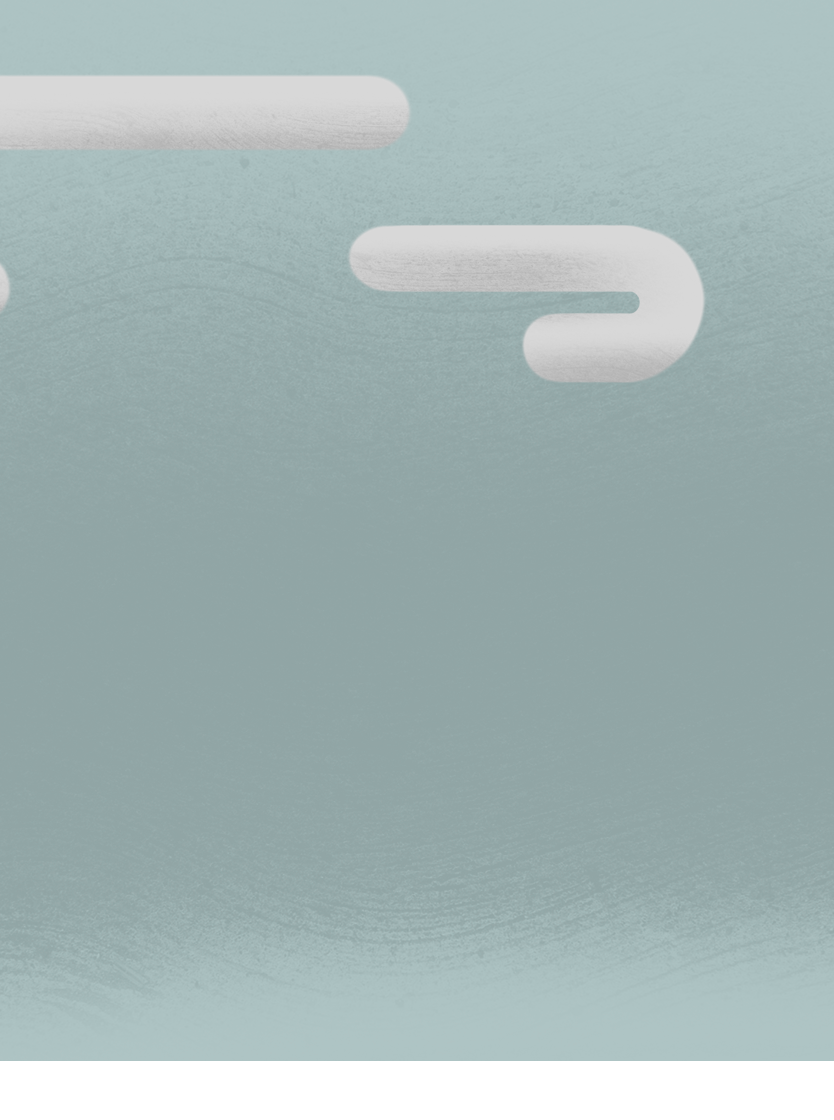
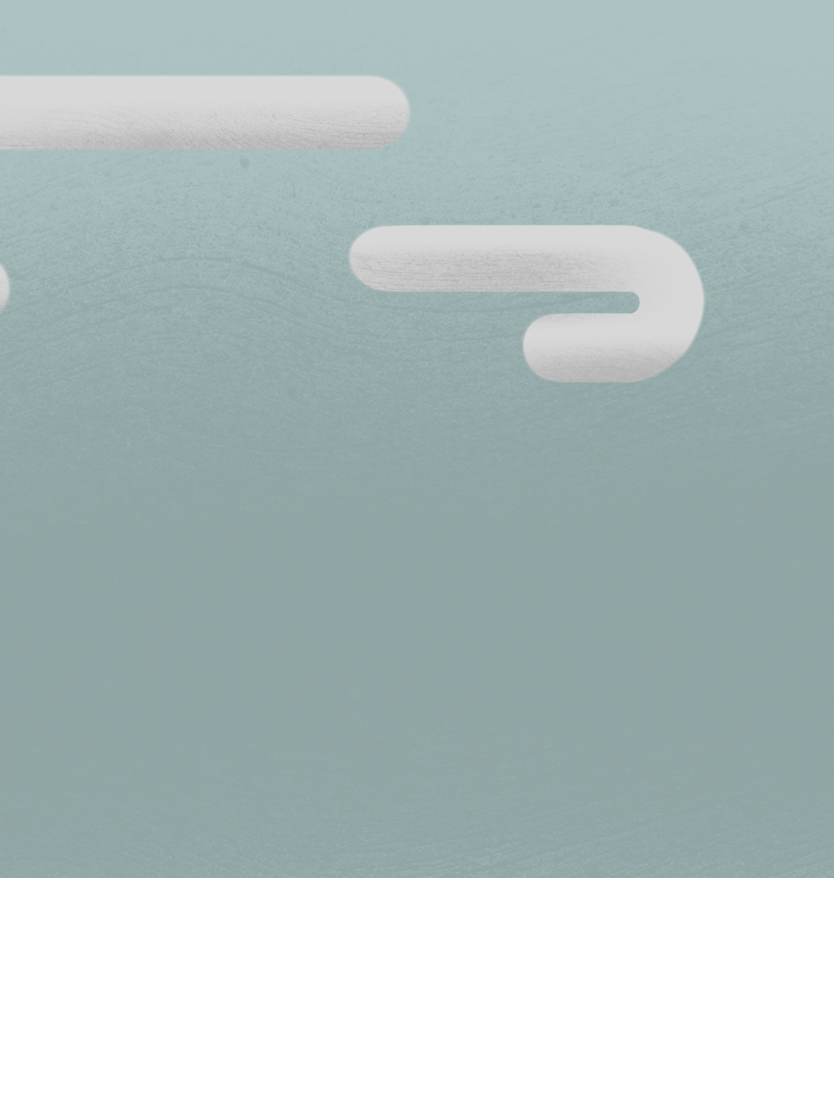
tab fixes

Changed region(s): [[0.0, 0.7812, 1.0, 0.9688]]

diff --git a/why.html b/why.html
@@ -22,7 +22,22 @@
 <link rel=stylesheet type=text/css href=css/main.css></noscript>
 <script>!function(c){c.loadCSS||(c.loadCSS=function(){});var b=loadCSS.relpreload={};if(b.support=function(){var f;try{f=c.document.createElement("link").relList.supports("preload")}catch(d){f=!1}return function(){return f}}(),b.bindMediaToggle=function(f){var g=f.media||"all";function d(){f.addEventListener?f.removeEventListener("load",d):f.attachEvent&&f.detachEvent("onload",d),f.setAttribute("onload",null),f.media=g}f.addEventListener?f.addEventListener("load",d):f.attachEvent&&f.attachEvent("onload",d),setTimeout(function(){f.rel="stylesheet",f.media="only x"}),setTimeout(d,3000)},b.poly=function(){if(!b.support()){for(var f=c.document.getElementsByTagName("link"),g=0;g<f.length;g++){var d=f[g];"preload"!==d.rel||"style"!==d.getAttribute("as")||d.getAttribute("data-loadcss")||(d.setAttribute("data-loadcss",!0),b.bindMediaToggle(d))}}},!b.support()){b.poly();var a=c.setInterval(b.poly,500);c.addEventListener?c.addEventListener("load",function(){b.poly(),c.clearInterval(a)}):c.attachEvent&&c.attachEvent("onload",function(){b.poly(),c.clearInterval(a)})}"undefined"!=typeof exports?exports.loadCSS=loadCSS:c.loadCSS=loadCSS}("undefined"!=typeof global?global:this);</script>
 <script type=text/javascript src=js/update_cache.js></script>
-<style>body,.overlay-cont .phil-cont,.ppl-cont,.footer-section-about .footer-p,.footer-section-about .footer-list a,.footer-section-about .get-in-touch p,.footer-section-about .copyright-area p,.quote-para,.dia-div .dia-normal,.dia-div .dia-bold,.common-para{font-family:'Ubuntu',sans-serif!important}.footer-title{font-family:'Cairo',sans-serif!important;line-height:1.4;font-weight:bold}.phil-title,.prog-head,.section-para-cont{font-family:'Cairo',sans-serif!important;line-height:1.4;font-weight:bold}.section-para-cont{font-size:24px}.phil-cont{font-family:'Ubuntu',sans-serif!important}.parallax-div{margin:0;padding:0;width:100%;height:100vh}.background-why{width:100%;height:100vh;position:absolute;background:url(assets/img/why/parallax/cloudsgif.gif) no-repeat;background-size:cover}.why1{position:absolute;width:100%;height:100vh;background:url(assets/img/why/parallax/landing2.png) no-repeat;background-size:cover}.why2{position:absolute;width:100%;height:100vh;background:url(assets/img/why/parallax/landing3.png) no-repeat;background-size:cover}.why3{position:absolute;width:100%;height:100vh;background:url(assets/img/why/parallax/landing4.png) no-repeat;background-size:cover}.why4{position:absolute;width:100%;height:100vh;background:url(assets/img/why/parallax/landing5.png) no-repeat;background-size:cover}.why5{position:absolute;width:100%;height:100vh;background:url(assets/img/why/parallax/landing6.png) no-repeat;background-size:cover}.why6{position:absolute;width:100%;height:100vh;background:url(assets/img/why/parallax/landing7.png) no-repeat;background-size:cover}.background-why-mob{width:100%;height:100vh;position:absolute;background:url(assets/img/mobile/why/landing1.png) no-repeat;background-size:cover}.whymob1{position:absolute;width:100%;height:100vh;background:url(assets/img/mobile/why/landing2.png) no-repeat;background-size:cover}.whymob2{position:absolute;width:100%;height:100vh;background:url(assets/img/mobile/why/landing3.png) no-repeat;background-size:cover}.whymob3{position:absolute;width:100%;height:100vh;background:url(assets/img/mobile/why/landing4.png) no-repeat;background-size:cover}.whymob4{position:absolute;width:100%;height:100vh;background:url(assets/img/mobile/why/landing5.png) no-repeat;background-size:cover}.whymob5{position:absolute;width:100%;height:100vh;background:url(assets/img/mobile/why/landing6.png) no-repeat;background-size:cover}.intro section-padding{padding-top:160px}</style>
+<style>body,.overlay-cont .phil-cont,.ppl-cont,.footer-section-about .footer-p,.footer-section-about .footer-list a,.footer-section-about .get-in-touch p,.footer-section-about .copyright-area p,.quote-para,.dia-div .dia-normal,.dia-div .dia-bold,.common-para{font-family:'Ubuntu',sans-serif!important}.footer-title{font-family:'Cairo',sans-serif!important;line-height:1.4;font-weight:bold}.phil-title,.prog-head,.section-para-cont{font-family:'Cairo',sans-serif!important;line-height:1.4;font-weight:bold}.section-para-cont{font-size:24px}.phil-cont{font-family:'Ubuntu',sans-serif!important}.parallax-div{margin:0;padding:0;width:100%;height:100vh}.background-why{width:100%;height:100vh;position:absolute;background:url(assets/img/why/parallax/cloudsgif.gif) no-repeat;background-size:cover}.why1{position:absolute;width:100%;height:100vh;background:url(assets/img/why/parallax/landing2.png) no-repeat;background-size:cover}.why2{position:absolute;width:100%;height:100vh;background:url(assets/img/why/parallax/landing3.png) no-repeat;background-size:cover}.why3{position:absolute;width:100%;height:100vh;background:url(assets/img/why/parallax/landing4.png) no-repeat;background-size:cover}.why4{position:absolute;width:100%;height:100vh;background:url(assets/img/why/parallax/landing5.png) no-repeat;background-size:cover}.why5{position:absolute;width:100%;height:100vh;background:url(assets/img/why/parallax/landing6.png) no-repeat;background-size:cover}.why6{position:absolute;width:100%;height:100vh;background:url(assets/img/why/parallax/landing7.png) no-repeat;background-size:cover}
+
+.background-why-mob{width:100%;height:100vh;position:absolute;background:url(assets/img/mobile/why/landing1.png) no-repeat;background-size:cover}
+.whymob1{position:absolute;width:100%;height:100vh;background:url(assets/img/mobile/why/landing2.png) no-repeat;background-size:cover}
+.whymob2{position:absolute;width:100%;height:100vh;background:url(assets/img/mobile/why/landing3.png) no-repeat;background-size:cover}
+.whymob3{position:absolute;width:100%;height:100vh;background:url(assets/img/mobile/why/landing4.png) no-repeat;background-size:cover}
+.whymob4{position:absolute;width:100%;height:100vh;background:url(assets/img/mobile/why/landing5.png) no-repeat;background-size:cover}
+.whymob5{position:absolute;width:100%;height:100vh;background:url(assets/img/mobile/why/landing6.png) no-repeat;background-size:cover}
+
+.background-why-tab{width:100%;height:100vh;position:absolute;background:url(assets/img/tab/why/landing1.png) no-repeat;background-size:cover}
+.whytab1{position:absolute;width:100%;height:100vh;background:url(assets/img/tab/why/landing2.png) no-repeat;background-size:cover}
+.whytab2{position:absolute;width:100%;height:100vh;background:url(assets/img/tab/why/landing3.png) no-repeat;background-size:cover}
+.whytab3{position:absolute;width:100%;height:100vh;background:url(assets/img/tab/why/landing4.png) no-repeat;background-size:cover}
+.whytab4{position:absolute;width:100%;height:100vh;background:url(assets/img/tab/why/landing5.png) no-repeat;background-size:cover}
+
+.intro section-padding{padding-top:160px}</style>
 </head>
 <body class=why-body onload=checkForUpdate()>
 <div>
@@ -211,6 +226,15 @@ Scroll down to explore
 <div class="rellax whymob4" data-rellax-speed=6></div>
 <div class="rellax whymob5" data-rellax-speed=0></div>
 </div>
+
+<div class=parallax-div id=tab-ver>
+    <div class=background-why-tab></div>
+    <div class="rellax whytab1" data-rellax-speed=5></div>
+    <div class="rellax whytab2" data-rellax-speed=4></div>
+    <div class="rellax whytab3" data-rellax-speed=2></div>
+    <div class="rellax whytab4" data-rellax-speed=0></div>
+</div>
+
 </div>
 </section>
 <section class="intro section-padding">
@@ -379,6 +403,7 @@ station.
 <section>
 <img src=assets/img/why/whyaalam4.jpg alt id=web-ver>
 <img src=assets/img/mob/why-over-mob.jpg alt id=mob-ver>
+<img src=assets/img/tab/why/whytab.png alt id=tab-ver>
 </section>
 <section class=section-welcome>
 <div class=container>
@@ -391,7 +416,7 @@ Welcome to Aalam
 <p>What’s special about Aalam?</p>
 </div>
 <div class="row text-center">
-<div class="col-lg-4 col-md-4 col-sm-12">
+<div class="col-lg-4  col-sm-12">
 <div class=image-zoom data-dsn-grid=parallax data-dsn-grid-move=20 id=mob-ver>
 <img src=assets/img/why/feature1.png alt>
 </div>
@@ -412,7 +437,7 @@ Aalam’s school facility is designed by architects from Harvard University.
 </div>
 </div>
 <div class=white-line></div>
-<div class="col-lg-4 col-md-4 col-sm-12">
+<div class="col-lg-4  col-sm-12">
 <div class=item-project>
 <div class=image-zoom data-dsn-grid=parallax data-dsn-grid-move=20 id=mob-ver>
 <img src=assets/img/why/feature4.png alt>
@@ -438,7 +463,7 @@ Gardner’s Theory of Multiple Intelligences.
 </div>
 </div>
 <div class=white-line></div>
-<div class="col-lg-4 col-md-4 col-sm-12">
+<div class="col-lg-4  col-sm-12">
 <div class=image-zoom data-dsn-grid=parallax data-dsn-grid-move=20 id=mob-ver>
 <img src=assets/img/why/feature2.png alt>
 </div>
@@ -464,7 +489,7 @@ Childhood.
 </div>
 <div class="row text-center">
 <div class="col-lg-2 col-md-2 col-sm-12"></div>
-<div class="col-lg-4 col-md-4 col-sm-12">
+<div class="col-lg-4  col-sm-12">
 <div class=image-zoom data-dsn-grid=parallax data-dsn-grid-move=20 id=mob-ver>
 <img src=assets/img/why/feature3.png alt>
 </div>
@@ -487,7 +512,7 @@ vision.
 </div>
 </div>
 <div class=white-line></div>
-<div class="col-lg-4 col-md-4 col-sm-12">
+<div class="col-lg-4  col-sm-12">
 <div class=image-zoom data-dsn-grid=parallax data-dsn-grid-move=20 id=mob-ver>
 <img src=assets/img/why/feature6.png alt>
 </div>

diff --git a/philisophy.html b/philisophy.html
@@ -16,7 +16,18 @@
 <link rel=stylesheet type=text/css href=css/vendor.css>
 <link rel=preload type=text/css href=css/main.css as=style onload="this.onload=null;this.rel='stylesheet'">
 <link href="https://fonts.googleapis.com/css2?family=Abril+Fatface&display=swap" rel=stylesheet>
-<style>body,.overlay-cont .phil-cont,.ppl-cont,.footer-section-about .footer-p,.footer-section-about .footer-list a,.footer-section-about .get-in-touch p,.footer-section-about .copyright-area p,.quote-para,.common-para{font-family:'Ubuntu',sans-serif!important}.footer-title,.play-p{font-family:'Cairo',sans-serif!important;line-height:1.4;font-weight:bold}.phil-title,.prog-head,.section-para-cont{font-family:'Cairo',sans-serif!important;line-height:1.4}.section-para-cont{font-size:36px;line-height:1}.phil-cont{font-family:'Ubuntu',sans-serif!important}@media(min-width:992px){.pad-b-300{padding-bottom:100px!important}}@media(min-width:1440px){.pad-b-300{padding-bottom:40px!important}.section-fullheight{padding-bottom:100px!important}}.parallax-div{margin:0;padding:0;width:100%;height:100vh}.background-phil{width:100%;height:100vh;position:absolute;background:url(assets/img/philisophy/parallax/landing1.png) no-repeat;background-size:cover}.phil1{position:absolute;width:100%;height:100vh;background:url(assets/img/philisophy/parallax/cloudsgif.gif) no-repeat;background-size:cover}.phil2{position:absolute;width:100%;height:100vh;background:url(assets/img/philisophy/parallax/landing3.png) no-repeat;background-size:cover}.phil3{position:absolute;width:100%;height:100vh;background:url(assets/img/philisophy/parallax/landing4.png) no-repeat;background-size:cover}.phil4{position:absolute;width:100%;height:100vh;background:url(assets/img/philisophy/parallax/layer.png) no-repeat;background-size:cover}.phil5{position:absolute;width:100%;height:100vh;background:url(assets/img/philisophy/parallax/landing5.png) no-repeat;background-size:cover}.background-phil-mob{width:100%;height:100vh;position:absolute;background:url(assets/img/mobile/philosophy/landing1.png) no-repeat;background-size:cover}.philmob1{position:absolute;width:100%;height:100vh;background:url(assets/img/mobile/philosophy/landing2.png) no-repeat;background-size:cover}.philmob2{position:absolute;width:100%;height:100vh;background:url(assets/img/mobile/philosophy/landing3.png) no-repeat;background-size:cover}.intro section-padding{padding-top:0}@media(min-width:992px){.pad-b-300{padding-bottom:0px!important}}@media(min-width:1440px){.pad-b-300{padding-bottom:40px!important}} @media(max-width:991px){.pt-4,.pt-2 {padding: 0px !important;}}</style>
+<style>body,.overlay-cont .phil-cont,.ppl-cont,.footer-section-about .footer-p,.footer-section-about .footer-list a,.footer-section-about .get-in-touch p,.footer-section-about .copyright-area p,.quote-para,.common-para{font-family:'Ubuntu',sans-serif!important}.footer-title,.play-p{font-family:'Cairo',sans-serif!important;line-height:1.4;font-weight:bold}.phil-title,.prog-head,.section-para-cont{font-family:'Cairo',sans-serif!important;line-height:1.4}.section-para-cont{font-size:36px;line-height:1}.phil-cont{font-family:'Ubuntu',sans-serif!important}@media(min-width:992px){.pad-b-300{padding-bottom:100px!important}}@media(min-width:1440px){.pad-b-300{padding-bottom:40px!important}.section-fullheight{padding-bottom:100px!important}}.parallax-div{margin:0;padding:0;width:100%;height:100vh}.background-phil{width:100%;height:100vh;position:absolute;background:url(assets/img/philisophy/parallax/landing1.png) no-repeat;background-size:cover}.phil1{position:absolute;width:100%;height:100vh;background:url(assets/img/philisophy/parallax/cloudsgif.gif) no-repeat;background-size:cover}.phil2{position:absolute;width:100%;height:100vh;background:url(assets/img/philisophy/parallax/landing3.png) no-repeat;background-size:cover}.phil3{position:absolute;width:100%;height:100vh;background:url(assets/img/philisophy/parallax/landing4.png) no-repeat;background-size:cover}.phil4{position:absolute;width:100%;height:100vh;background:url(assets/img/philisophy/parallax/layer.png) no-repeat;background-size:cover}.phil5{position:absolute;width:100%;height:100vh;background:url(assets/img/philisophy/parallax/landing5.png) no-repeat;background-size:cover}
+.background-phil-mob{width:100%;height:100vh;position:absolute;background:url(assets/img/mobile/philosophy/landing1.png) no-repeat;background-size:cover}
+.philmob1{position:absolute;width:100%;height:100vh;background:url(assets/img/mobile/philosophy/landing2.png) no-repeat;background-size:cover}
+.philmob2{position:absolute;width:100%;height:100vh;background:url(assets/img/mobile/philosophy/landing3.png) no-repeat;background-size:cover}
+
+.background-phil-tab{width:100%;height:100vh;position:absolute;background:url(assets/img/tab/phil/landing1.png) no-repeat;background-size:cover}
+.philtab1{position:absolute;width:100%;height:100vh;background:url(assets/img/tab/phil/landing2.png) no-repeat;background-size:cover}
+.philtab2{position:absolute;width:100%;height:100vh;background:url(assets/img/tab/phil/landing3.png) no-repeat;background-size:cover}
+.philtab3{position:absolute;width:100%;height:100vh;background:url(assets/img/tab/phil/landing4.png) no-repeat;background-size:cover}
+
+
+.intro section-padding{padding-top:0}@media(min-width:992px){.pad-b-300{padding-bottom:0px!important}}@media(min-width:1440px){.pad-b-300{padding-bottom:40px!important}} @media(max-width:991px){.pt-4,.pt-2 {padding: 0px !important;}}</style>
 </head>
 <body class=phil-body>
 <div>
@@ -201,6 +212,12 @@ Scroll down to explore
 <div class="rellax philmob1" data-rellax-speed=5></div>
 <div class="rellax philmob2" data-rellax-speed=0></div>
 </div>
+<div class=parallax-div id=tab-ver>
+    <div class=background-phil-tab></div>
+    <div class="rellax philtab1" data-rellax-speed=2></div>
+    <div class="rellax philtab2" data-rellax-speed=3></div>
+    <div class="rellax philtab3" data-rellax-speed=2></div>
+    </div>
 </div>
 </section>
 <section class="intro section-padding" data-aos=fade-up>

diff --git a/aboutaalam.html b/aboutaalam.html
@@ -23,10 +23,10 @@
 .ourstorymob2{position:absolute;width:100%;height:100vh;background:url(assets/img/mobile/our/landing3.png) no-repeat;background-size:cover}
 .ourstorymob3{position:absolute;width:100%;height:100vh;background:url(assets/img/mobile/our/landing4.png) no-repeat;background-size:cover}
 
-.background-ourstory-tab{width:100%;position:absolute;background:url(assets/img/mobile/our/landing1.png) no-repeat;background-size:cover}
-.ourstorytab1{position:absolute;width:100%;height:100vh;background:url(assets/img/mobile/our/landing2.png) no-repeat;background-size:cover}
-.ourstorytab2{position:absolute;width:100%;height:100vh;background:url(assets/img/mobile/our/landing3.png) no-repeat;background-size:cover}
-.ourstorytab3{position:absolute;width:100%;height:100vh;background:url(assets/img/mobile/our/landing4.png) no-repeat;background-size:cover}
+.background-ourstory-tab{width:100%;position:absolute;background:url(assets/img/tab/our/landing1.png) no-repeat;background-size:cover}
+.ourstorytab1{position:absolute;width:100%;height:100vh;background:url(assets/img/tab/our/landing2.png) no-repeat;background-size:cover}
+.ourstorytab2{position:absolute;width:100%;height:100vh;background:url(assets/img/tab/our/landing3.png) no-repeat;background-size:cover}
+.ourstorytab3{position:absolute;width:100%;height:100vh;background:url(assets/img/tab/our/landing4.png) no-repeat;background-size:cover}
 
 .intro section-padding{padding-top:140px}</style>
 </head>
@@ -263,7 +263,7 @@ everyone who comes towards her, Aalam will help every child coming towards her.
 <section class=ourstory-col>
 <div class=container>
 <div class="row align-items-center pb-1">
-<div class="col-lg-6 col-md-6 col-sm-12 order-lg-2">
+<div class="col-lg-6  col-sm-12 order-lg-2">
 <p class="common-para about-bold-cont pb-1">
 Hello,
 </p>
@@ -299,7 +299,7 @@ Welcome to Aalam!
 Abinaya and Gokul
 </p>
 </div>
-<div class="col-lg-6 col-md-6 col-sm-12 order-lg-2" id=web-ver>
+<div class="col-lg-6  col-sm-12 order-lg-2" id=web-ver>
 <div id=ani-contour class=slide>
 <div class=slide__image-wrapper>
 <img class=slide__image src=assets/img/our/animation/reading1.png alt>
@@ -318,6 +318,9 @@ Abinaya and Gokul
 <section style=margin-top:-140px id=mob-ver>
 <img src=assets/img/mob/our-founder.jpg alt>
 </section>
+<section style=margin-top:-140px id=tab-ver>
+    <img src=assets/img/tab/our/ourtab.png alt>
+</section>
 <section class="bg-ash mob-heading">
 <div class=container>
 <div class="pt-3 pb-3">
@@ -331,10 +334,10 @@ Abinaya and Gokul
 <div class>
 <div class=container style=padding-left:20px>
 <div class="row text-center">
-<div class="col-lg-3 col-md-3 col-sm-12 mb-5">
+<div class="col-lg-3  col-sm-12 mb-5">
 <img src=assets/img/our/team/Abhinaya.png alt>
 </div>
-<div class="col-lg-3 col-md-3 col-sm-12 text-sm-left mb-5">
+<div class="col-lg-3  col-sm-12 text-sm-left mb-5">
 <div class=ver-mid style=float:inherit>
 <p class=ppl-title>
 Dr. Abhinaya
@@ -344,10 +347,10 @@ Founder
 </p>
 </div>
 </div>
-<div class="col-lg-3 col-md-3 col-sm-12 mb-5">
+<div class="col-lg-3  col-sm-12 mb-5">
 <img src=assets/img/our/team/Gokul.png alt>
 </div>
-<div class="col-lg-3 col-md-3 col-sm-12 text-sm-left mb-5">
+<div class="col-lg-3  col-sm-12 text-sm-left mb-5">
 <div class=ver-mid style=float:inherit>
 <p class=ppl-title>
 Dr. Gokul
@@ -357,10 +360,10 @@ Co-Founder
 </p>
 </div>
 </div>
-<div class="col-lg-3 col-md-3 col-sm-12">
+<div class="col-lg-3  col-sm-12">
 <img src=assets/img/our/team/Prema.png alt>
 </div>
-<div class="col-lg-3 col-md-3 col-sm-12 text-sm-left">
+<div class="col-lg-3  col-sm-12 text-sm-left">
 <div class=ver-mid style=float:inherit>
 <p class=ppl-title>
 Ms Prema Daniel
@@ -370,10 +373,10 @@ Curriculum Designer
 </p>
 </div>
 </div>
-<div class="col-lg-3 col-md-3 col-sm-12">
+<div class="col-lg-3  col-sm-12">
 <img src=assets/img/our/team/Shanmugam.png alt>
 </div>
-<div class="col-lg-3 col-md-3 col-sm-12 text-sm-left">
+<div class="col-lg-3  col-sm-12 text-sm-left">
 <div class=ver-mid style=float:inherit>
 <p class=ppl-title>
 Shanmugam Associates
@@ -450,7 +453,7 @@ will contact within 24 hours</span></p>
 Nadu</span></p>
 </div>
 </div>
-<div class="col-md-3 social-icons text-sm-right">
+<div class=" social-icons text-sm-right">
 <a href=https://m.facebook.com/aalamplay/ target=_blank><img src=assets/img/facebook-black.png alt></a>
 <a href=https://www.instagram.com/aalamplay target=_blank><img src=assets/img/instagram-black.png alt></a>
 </div>
